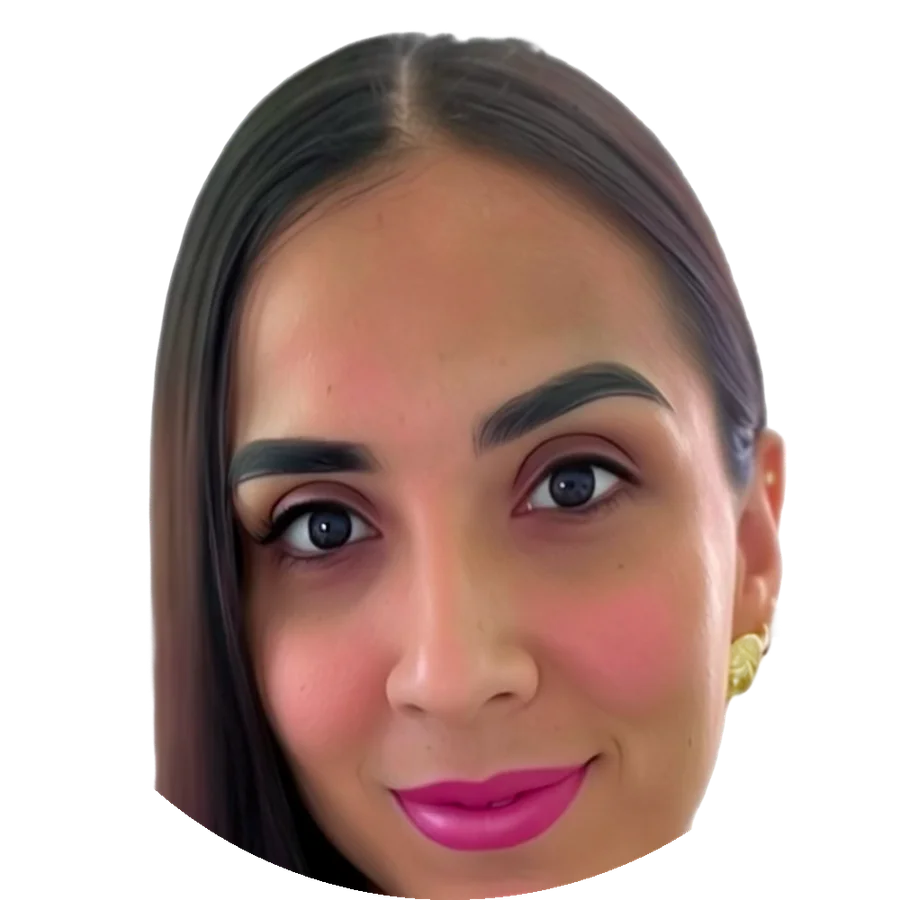
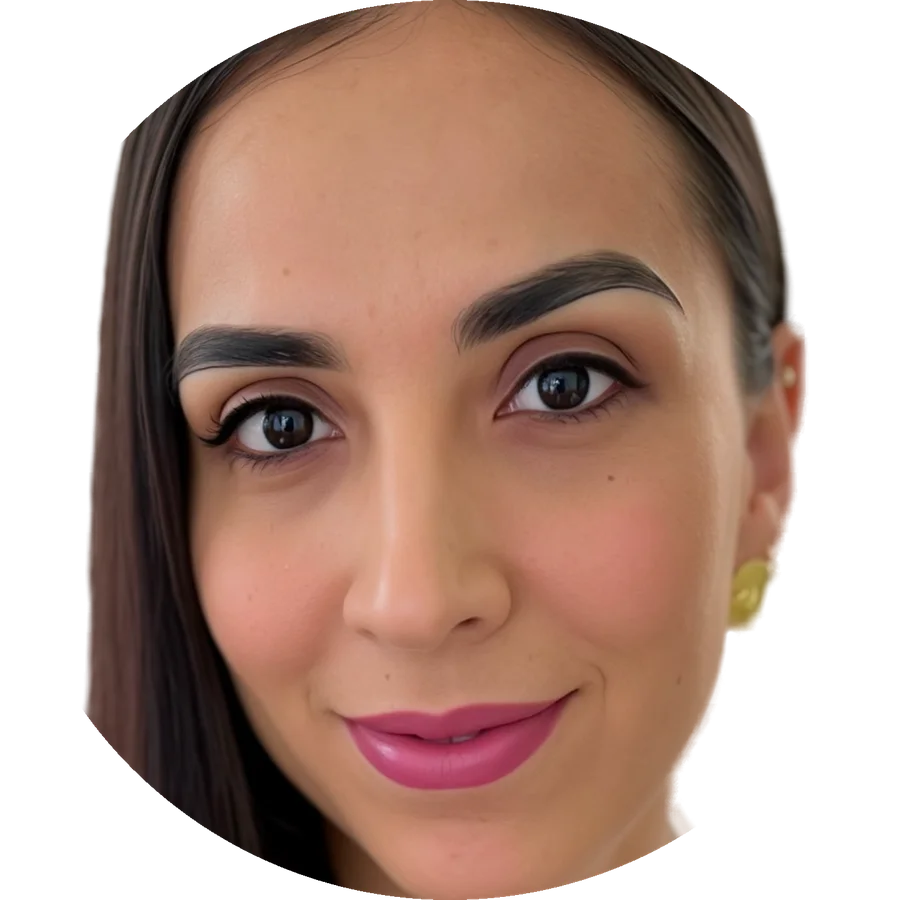
Switch hero + share card to new natural headshot (client-provided PNG image 5)

diff --git a/en/index.html b/en/index.html
@@ -98,7 +98,7 @@
         </div>
       </div>
       <figure class="hero-figure">
-        <img src="../assets/img/dra-bianca.webp" width="1200" height="2012"
+        <img src="../assets/img/dra-bianca.webp" width="1200" height="2118"
              srcset="../assets/img/dra-bianca-sm.webp 640w, ../assets/img/dra-bianca.webp 1200w"
              sizes="(max-width: 960px) 88vw, 400px"
              alt="Dra. Bianca Rubí Flores Reyes, anesthesiologist" fetchpriority="high">

diff --git a/index.html b/index.html
@@ -106,7 +106,7 @@
         </div>
       </div>
       <figure class="hero-figure">
-        <img src="assets/img/dra-bianca.webp" width="1200" height="2012"
+        <img src="assets/img/dra-bianca.webp" width="1200" height="2118"
              srcset="assets/img/dra-bianca-sm.webp 640w, assets/img/dra-bianca.webp 1200w"
              sizes="(max-width: 960px) 88vw, 400px"
              alt="Dra. Bianca Rubí Flores Reyes, médico anestesióloga" fetchpriority="high">
